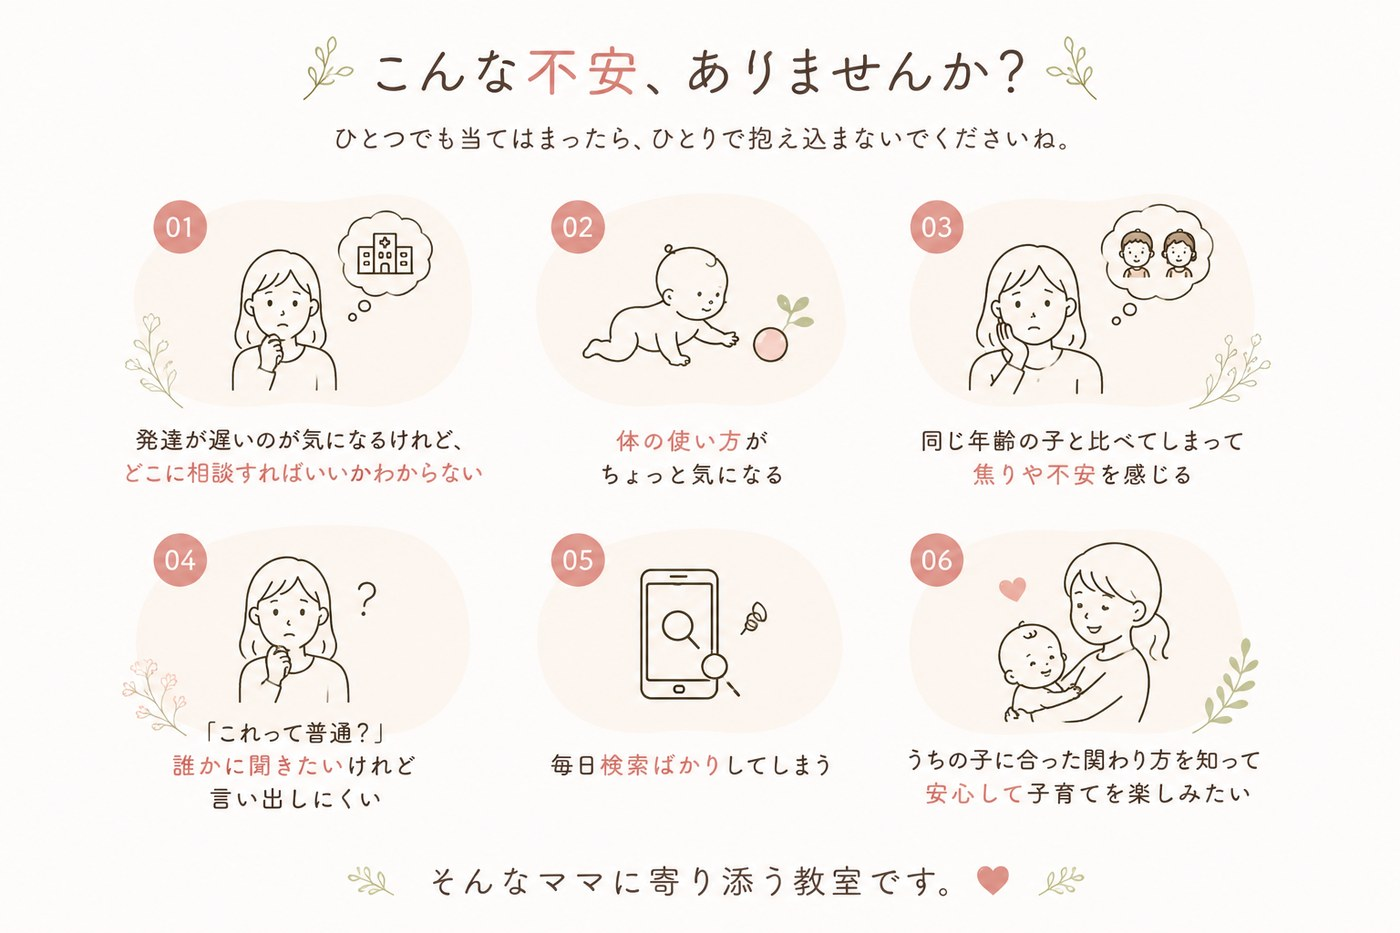
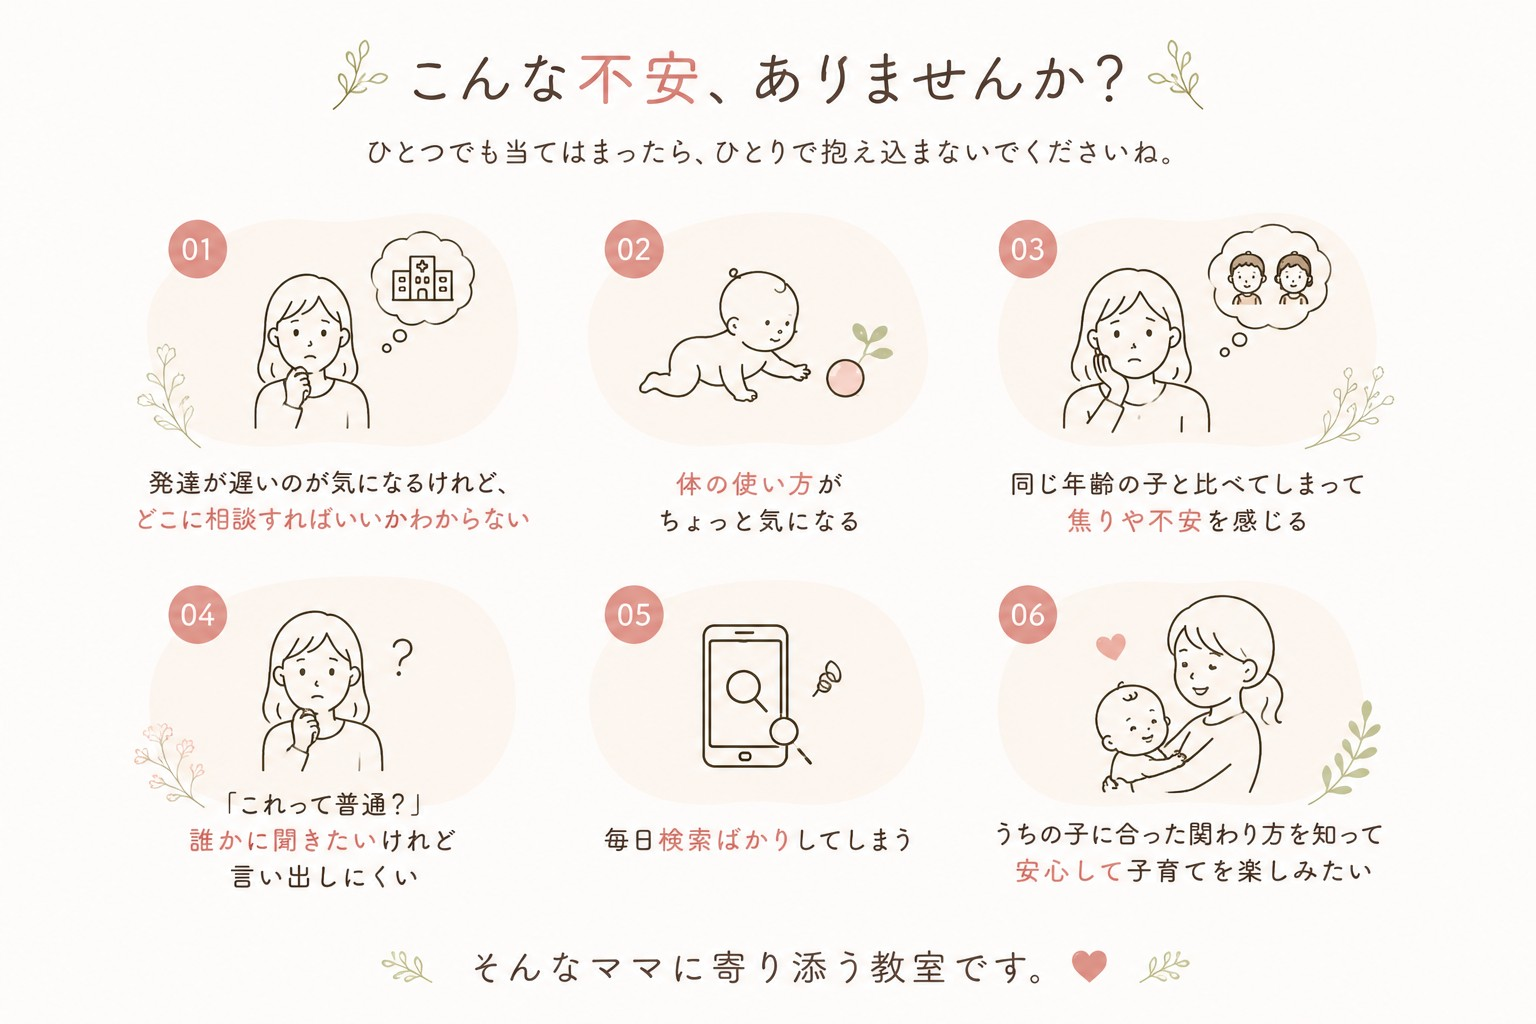
「こんな不安、ありませんか？」の画像を画面いっぱいに拡大
- 左右の余白と角丸をなくし、画面幅いっぱいに表示
- 画像を元データの解像度(1536px)で再書き出しし、拡大時の劣化を軽減
- セクション背景を画像の地色と同色にし、1536pxを超える大画面でも
  継ぎ目が見えないまま全幅に見えるように調整

diff --git a/index.html b/index.html
@@ -25,10 +25,8 @@
   </div>
 </section>
 
-<section class="tone-soft">
-  <div class="wrap">
-    <img src="images/section-worries.jpg" width="1400" height="933" alt="こんな不安、ありませんか？ 発達が遅いのが気になるけれど、どこに相談すればいいかわからない。体の使い方がちょっと気になる。同じ年齢の子と比べてしまって焦りや不安を感じる。「これって普通？」誰かに聞きたいけれど言い出しにくい。毎日検索ばかりしてしまう。うちの子に合った関わり方を知って安心して子育てを楽しみたい。ひとつでも当てはまったら、ひとりで抱え込まないでくださいね。そんなママに寄り添う教室です。" loading="lazy" style="width:100%; height:auto; border-radius:var(--radius-lg);">
-  </div>
+<section class="section-full">
+  <img src="images/section-worries.jpg" width="1536" height="1024" alt="こんな不安、ありませんか？ 発達が遅いのが気になるけれど、どこに相談すればいいかわからない。体の使い方がちょっと気になる。同じ年齢の子と比べてしまって焦りや不安を感じる。「これって普通？」誰かに聞きたいけれど言い出しにくい。毎日検索ばかりしてしまう。うちの子に合った関わり方を知って安心して子育てを楽しみたい。ひとつでも当てはまったら、ひとりで抱え込まないでくださいね。そんなママに寄り添う教室です。" loading="lazy">
 </section>
 
 <section>

diff --git a/css/style.css b/css/style.css
@@ -850,6 +850,24 @@ section {
   color: var(--color-text-soft);
 }
 
+/* ---------- full-bleed section image ---------- */
+
+.section-full {
+  padding: 0;
+  background: #fdfcfa;
+}
+
+.section-full img {
+  display: block;
+  width: 100%;
+  height: auto;
+  /* 画像の実寸を上限にして拡大ボケを防ぐ。
+     セクション背景を画像の地色と同色にしてあるため、
+     これより広い画面でも継ぎ目なく全幅に見える。 */
+  max-width: 1536px;
+  margin: 0 auto;
+}
+
 /* ---------- legal pages ---------- */
 
 .legal h3 {
